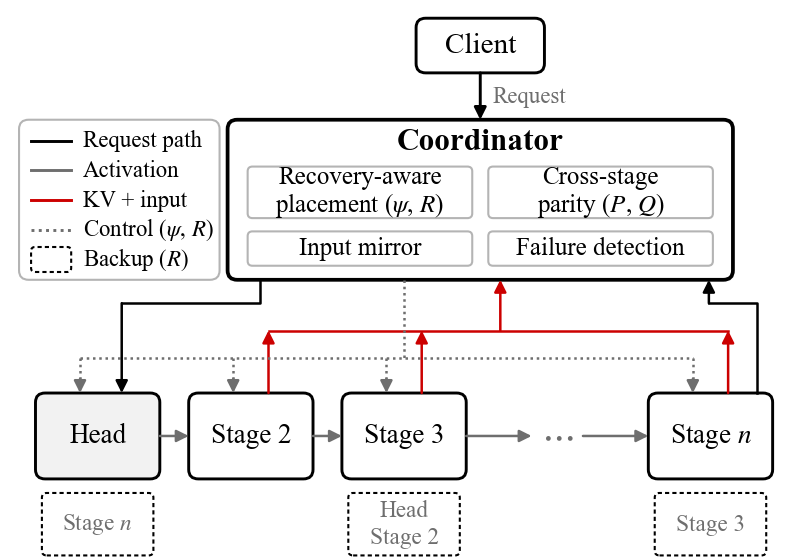
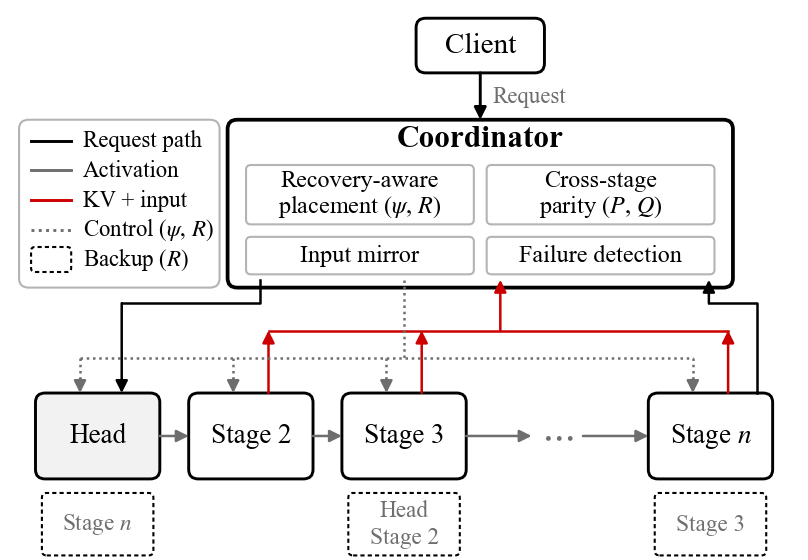
fix(figures): Fig. 1 coordinator role boxes — more padding around labels

Changed region(s): [[0.0, 0.2125, 0.9282, 0.5161]]

diff --git a/paper/figures/paper/make_architecture.py b/paper/figures/paper/make_architecture.py
@@ -39,17 +39,17 @@ box(51.5, 71, 16, 7); ax.text(59.5, 74.5, "Client", ha="center", va="center", si
 arrow((59.5, 71), (59.5, 65)); ax.text(61, 68, "Request", size=5.5, color=GRAY, va="center")
 
 # --- coordinator
-box(28, 44.5, 63, 20.5, lw=0.9)
-ax.text(59.5, 62.1, "Coordinator", ha="center", va="center", size=7.5, weight="bold")
-for x, y, t in [(44.5, 55.7, "Recovery-aware\nplacement ($\\psi$, $R$)"), (74.5, 55.7, "Cross-stage\nparity ($P$, $Q$)"),
-                (44.5, 48.5, "Input mirror"), (74.5, 48.5, "Failure detection")]:
-    h = 6.6 if "\n" in t else 4.4
-    box(x - 14, y - h / 2, 28, h, ec=LIGHT, lw=0.5, r=0.6)
-    ax.text(x, y, t, ha="center", va="center", size=6, linespacing=1.05)
+box(28, 43.5, 63, 21.5, lw=0.9)
+ax.text(59.5, 62.4, "Coordinator", ha="center", va="center", size=7.5, weight="bold")
+for x, y, t in [(44.5, 55.4, "Recovery-aware\nplacement ($\\psi$, $R$)"), (74.5, 55.4, "Cross-stage\nparity ($P$, $Q$)"),
+                (44.5, 47.6, "Input mirror"), (74.5, 47.6, "Failure detection")]:
+    h = 7.6 if "\n" in t else 4.8
+    box(x - 14.2, y - h / 2, 28.4, h, ec=LIGHT, lw=0.5, r=0.6)
+    ax.text(x, y, t, ha="center", va="center", size=5.8, linespacing=1.15)
 
 # --- legend (left)
 lx = 2
-box(lx, 44.5, 25, 20.5, ec=LIGHT, lw=0.5)
+box(lx, 43.5, 25, 21.5, ec=LIGHT, lw=0.5)
 for y, col, ls, t in [(62.3, INK, "-", "Request path"), (58.5, GRAY, "-", "Activation"),
                       (54.7, EMPH, "-", "KV + input"), (50.9, GRAY, (0, (1, 1.5)), "Control ($\\psi$, $R$)")]:
     ax.plot([lx + 1.5, lx + 6.5], [y, y], color=col, lw=0.7, linestyle=ls); ax.text(lx + 8, y, t, size=5.5, va="center")
